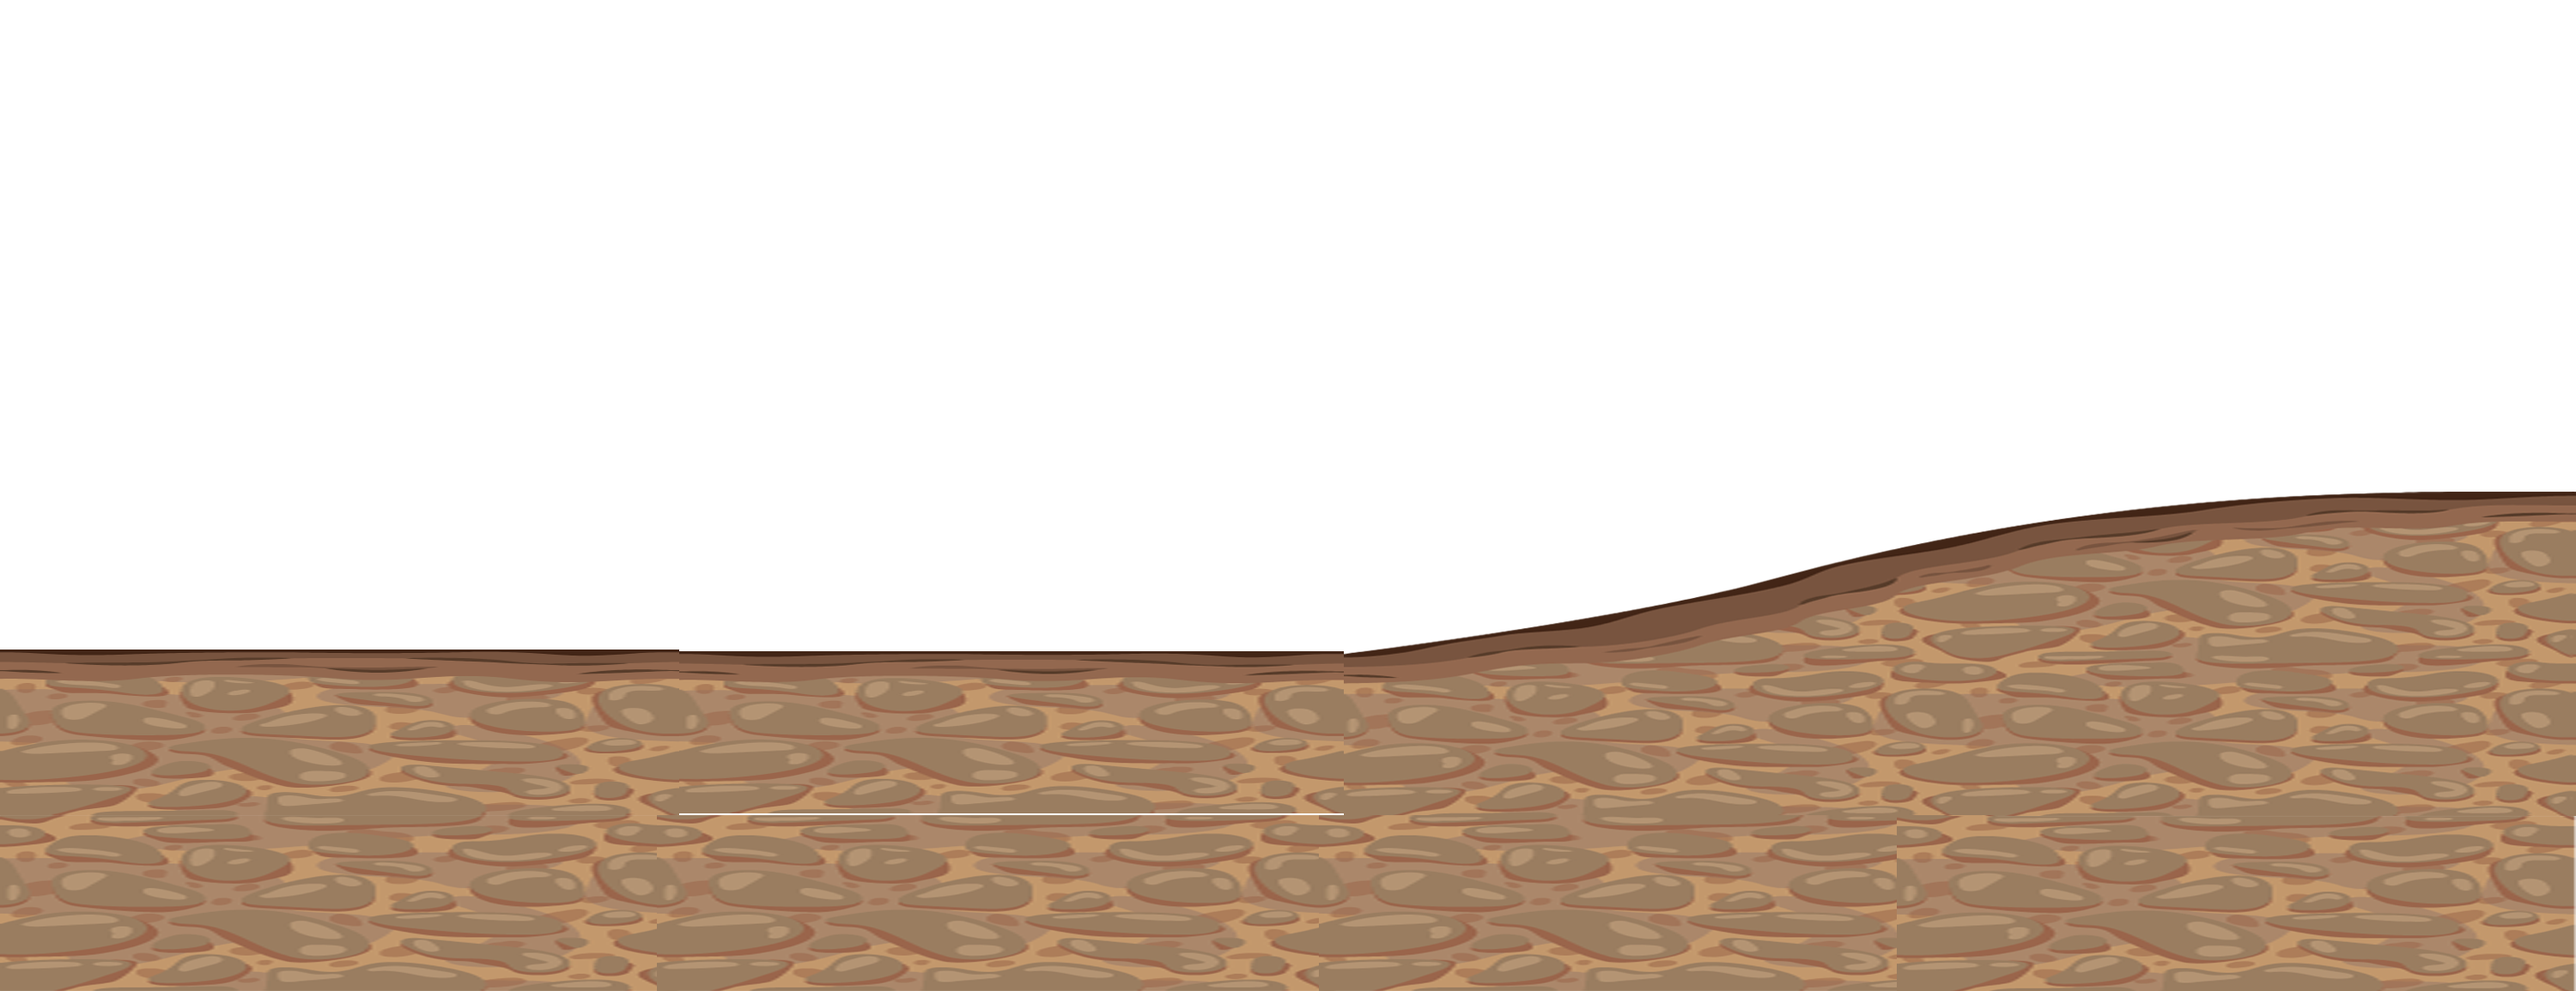
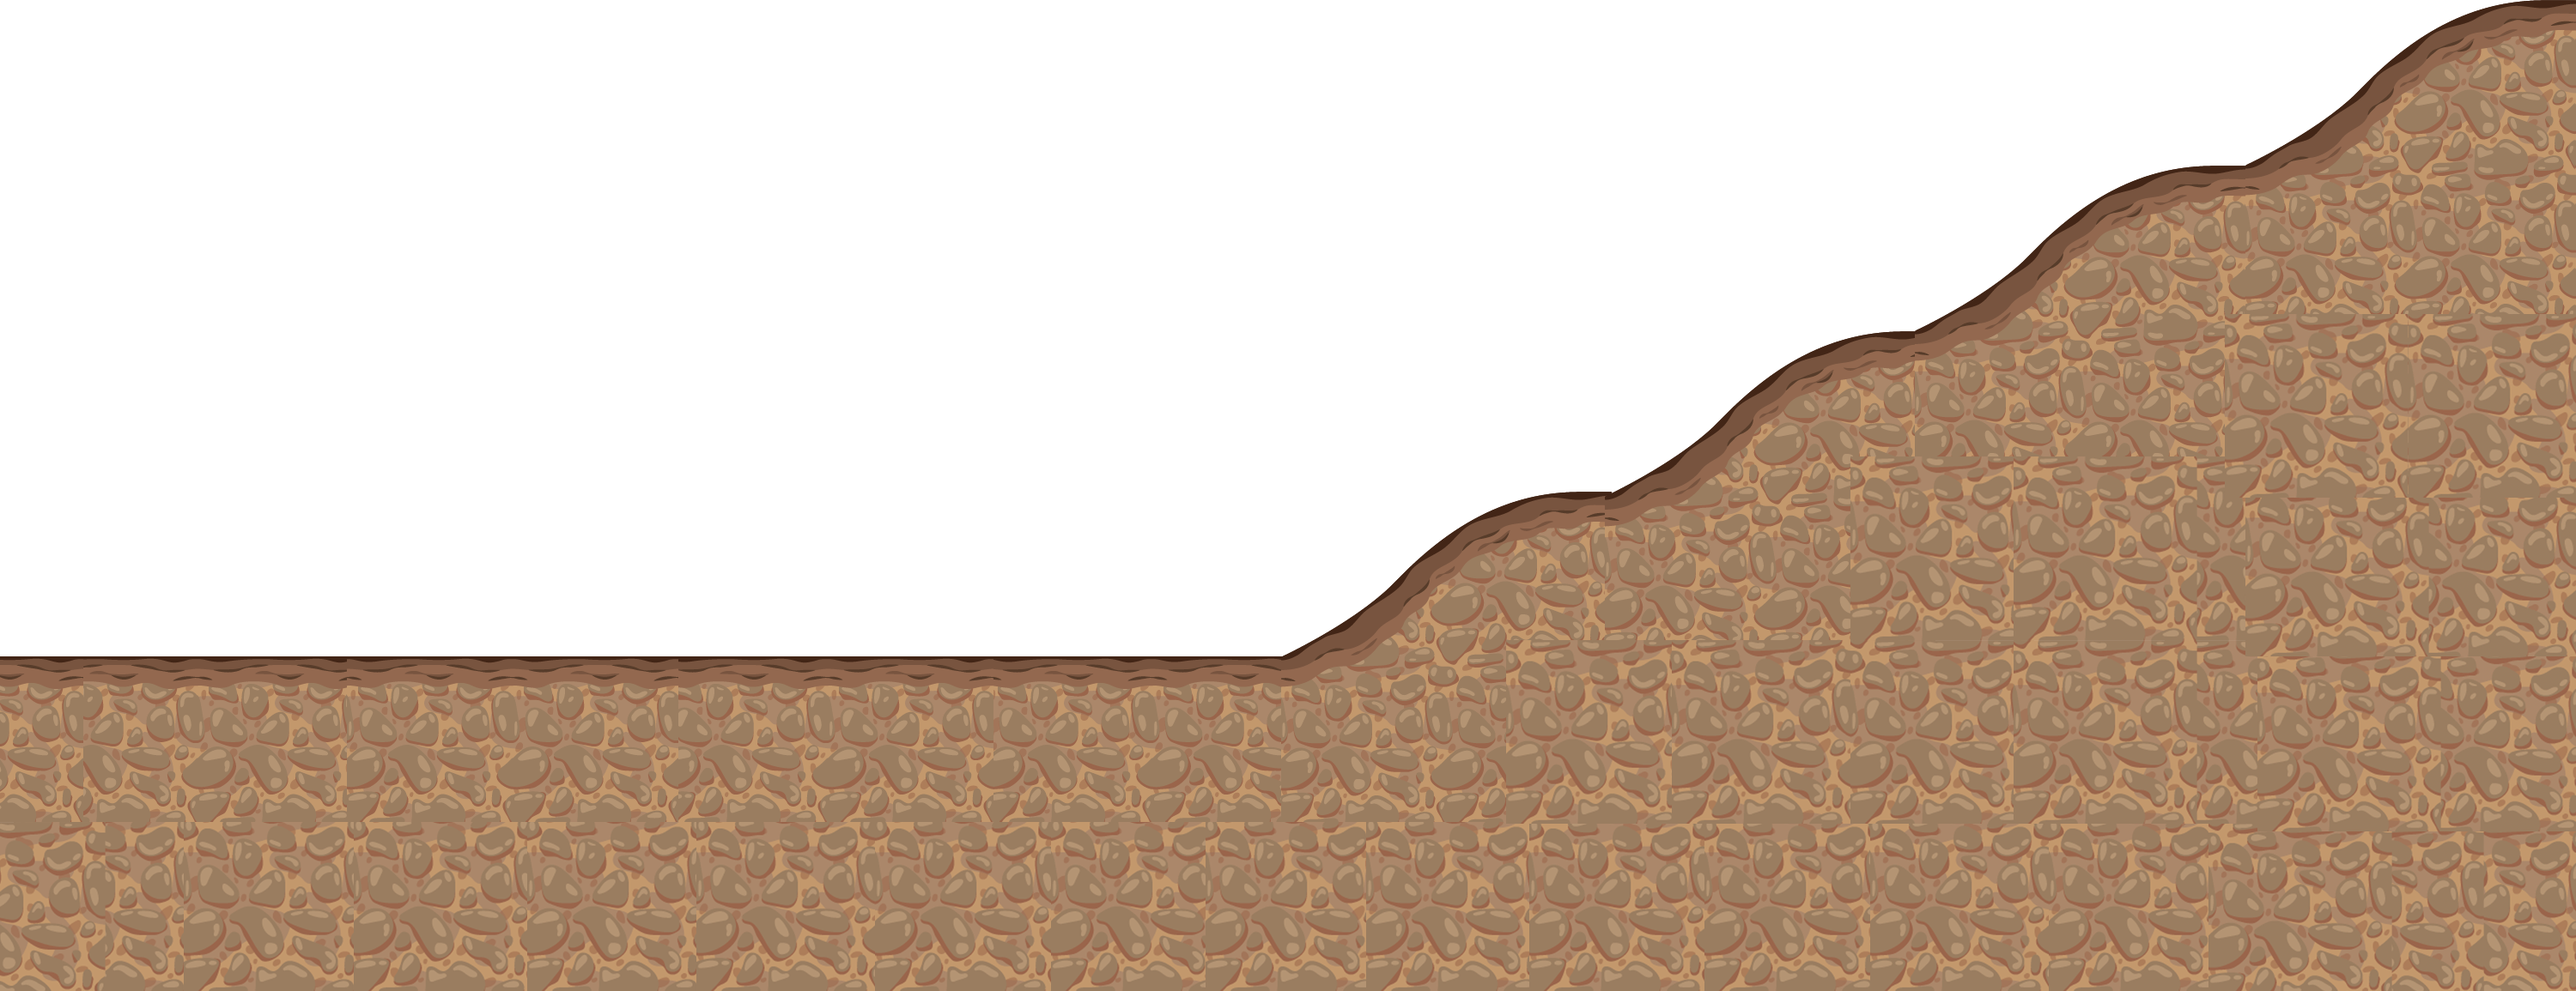
edited ground and background images

Changed region(s): [[0.0, 0.0, 1.0, 1.0]]

diff --git a/src/Controller.cpp b/src/Controller.cpp
@@ -5,7 +5,7 @@ Controller::Controller()
         : m_view(Vector2f(0.0f, 0.0f), Vector2f(VIEW_HEIGHT, VIEW_WIDTH)),
           m_userMoved(false) {
     m_gameImage.setTexture(Resources::instance().getTexture(Background));
-//    m_gameImage.setScale(4, 2.5);
+    m_gameImage.setScale(3, 1);
     auto view = m_gameWindow.getView();
 //    view.setCenter(m_data.getUserPosition().x+1000, m_data.getUserPosition().y+1500);
     m_gameWindow.setView(view);

diff --git a/src/Data.cpp b/src/Data.cpp
@@ -5,7 +5,7 @@ Data::Data() : m_map(std::cin) {
     m_map.readMapFile(*this);
 }
 
-//________________________________________
+//______________________________________
 void Data::setObject(std::string &name,
                      const sf::Vector2f &position,
                      const sf::Vector2f &scale) {

diff --git a/src/Map.cpp b/src/Map.cpp
@@ -39,3 +39,11 @@ void Map::sendObjectsFromMap(Data &data, Map &readMap) {
         data.setObject(typeOfObject, position, scale);
     }
 }
+
+//ground_2 0 2000 3 1
+//ground_3 9000 2000 3 1
+
+//ground_6 1800 1300 1 1
+//ground_7 1900 1300 1 1
+//ground_8 2000 1300 1 1
+//ground_9 2100 1300 1 1
